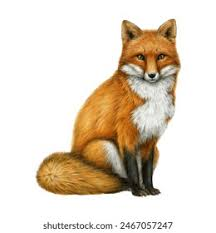
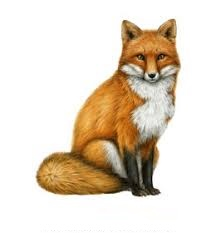
ajuste tamaño imágenes de nuestros personajes

Changed region(s): [[0.5556, 0.9313, 0.8056, 0.9914], [0.1944, 0.9614, 0.5278, 0.9914]]

diff --git a/styles.css b/styles.css
@@ -255,6 +255,7 @@ img {
   margin-top: 6px;
 }
 
+
 /* Cards (Personajes) */
 .cards {
   display: grid;
@@ -275,6 +276,11 @@ img {
 
 .card h3 {
   margin: 0 0 6px;
+}
+
+article img {
+  height: 200px;
+  width: 180px;
 }
 
 /* Forms */
